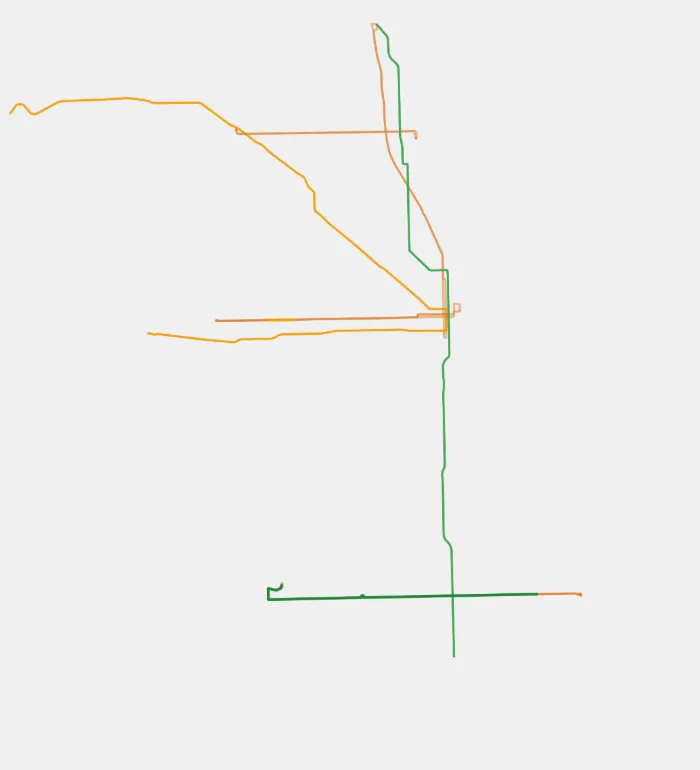
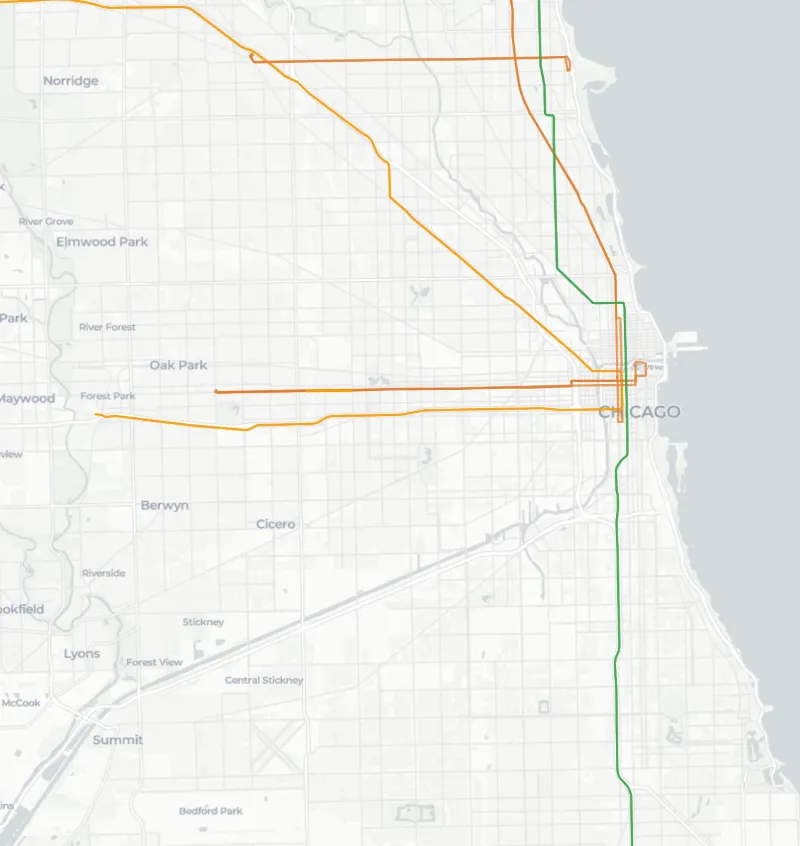
For transit planners page: picture fixes from the critic (CIV-1320)
Recaptured every picture with the basemap and its place names (the dev API
server serves the basemap tiles locally): Compare cropped to the two maps
with their A/B labels, Chicago overnight framed on the network at the
sketch's 30-minute tier, the Bay Area crop anchored on the whole agency
filter with Milpitas labelled, the export reframed without the stray western
stub, and the route card shown whole. Feature cards top-align their text;
each picture keeps its own shape.

diff --git a/src/PlannersPage.tsx b/src/PlannersPage.tsx
@@ -32,7 +32,7 @@ function Email() {
 /** A feature section: a tinted card, its heading and text beside its pictures (stacked on phones). */
 function Feature({ title, color, pictures, children }: { title: string; color: string; pictures: ReactNode; children: ReactNode }) {
   return (
-    <section className="grid gap-8 rounded-2xl p-6 sm:p-8 lg:grid-cols-[0.9fr_1.1fr] lg:items-center lg:gap-10" style={{ background: tint(color) }}>
+    <section className="grid gap-8 rounded-2xl p-6 sm:p-8 lg:grid-cols-[0.9fr_1.1fr] lg:items-start lg:gap-10" style={{ background: tint(color) }}>
       <div>
         <h2 className="text-2xl font-black tracking-tight">{title}</h2>
         <div className="mt-3 space-y-3 text-base leading-7 text-[var(--text-muted)]">{children}</div>
@@ -86,10 +86,10 @@ export default function PlannersPage() {
         </Feature>
         <Feature title="See how service changes over the day and week" color={color(1)} pictures={
           <div className="space-y-3">
-            <ThemedPicture base={pic('compare')} ext="webp" className={`${PICTURE} aspect-[16/10]`} />
-            <div className="grid grid-cols-2 gap-3">
-              <ThemedPicture base={pic('chicago')} ext="webp" className={`${PICTURE} aspect-[10/11]`} />
-              <ThemedPicture base={pic('routecard')} ext="webp" className={`${PICTURE} aspect-[10/11] object-top`} />
+            <ThemedPicture base={pic('compare')} ext="webp" className={`${PICTURE} aspect-[1440/730]`} />
+            <div className="grid grid-cols-2 items-start gap-3">
+              <ThemedPicture base={pic('chicago')} ext="webp" className={`${PICTURE} aspect-[700/740]`} />
+              <ThemedPicture base={pic('routecard')} ext="webp" className={`${PICTURE} aspect-[700/1078]`} />
             </div>
           </div>
         }>
@@ -98,7 +98,7 @@ export default function PlannersPage() {
           <p>Open any route to see an hourly chart of its headways, which also shows its span of service.</p>
         </Feature>
         <Feature title="Every agency in a region, on one map" color={color(2)} pictures={
-          <ThemedPicture base={pic('bayarea')} ext="webp" className={`${PICTURE} aspect-[47/38]`} />
+          <ThemedPicture base={pic('bayarea')} ext="webp" className={`${PICTURE} aspect-[740/700]`} />
         }>
           <p>Riders don't care which agency runs the bus. Atlas puts every agency it covers on the same map, so you can see where local, regional and intercity services meet, and where they don't. Use the agency filter to focus on one operator, or leave it on All to see the whole region.</p>
           <p>This helps you spot weak connections between agencies: a hub where one agency runs every 10 minutes and the other once an hour, or a town where an intercity route stops but no local bus runs in the evening.</p>
